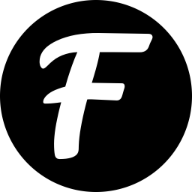
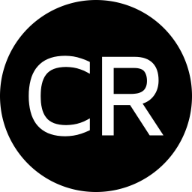
updated avicon and name

Changed region(s): [[0.125, 0.1562, 0.875, 0.8438]]

diff --git a/src/views/HomeView.vue b/src/views/HomeView.vue
@@ -40,7 +40,7 @@ const navigateToColleges = () => {
       
       <div class="mt-8 text-xl text-gray-300 space-y-6 text-left">
         <p>
-          <span class="text-blue-400 font-semibold">SKOOLS.COM</span> is your comprehensive platform for college exploration and decision-making. We help prospective students access detailed information about institutions across the United States to make informed choices about their academic future.
+          <span class="text-blue-400 font-semibold">COLLEGE REPORT CARDS</span> is your comprehensive platform for college exploration and decision-making. We help prospective students access detailed information about institutions across the United States to make informed choices about their academic future.
         </p>
         
         <p>

diff --git a/public/index.html b/public/index.html
@@ -16,7 +16,7 @@
     <!-- iOS web app configuration -->
     <meta name="apple-mobile-web-app-capable" content="yes">
     <meta name="apple-mobile-web-app-status-bar-style" content="black-translucent">
-    <meta name="apple-mobile-web-app-title" content="FlippyBot">
+    <meta name="apple-mobile-web-app-title" content="CollegeReport">
     
     <!-- Android/Chrome icons -->
     <link rel="manifest" href="<%= BASE_URL %>site.webmanifest">
@@ -24,7 +24,7 @@
     <!-- Optional: theme color for browsers that support it -->
     <meta name="theme-color" content="#1C1C1E">
     
-    <title>FlippyBot - Find Marketplace Deals</title>
+    <title>CollegeReport</title>
   </head>
   <body>
     <noscript>

diff --git a/src/App.vue b/src/App.vue
@@ -129,7 +129,7 @@ onUnmounted(() => {
         <div class="flex items-center justify-between h-16">
           <!-- Logo -->
           <div class="flex items-center">
-            <router-link to="/" class="uppercase tracking-wide text-white font-bold text-xl">SKOOLS.COM</router-link>
+            <router-link to="/" class="uppercase tracking-wide text-white font-bold text-lg sm:text-xl">COLLEGE REPORT CARDS</router-link>
             
             <!-- Navigation Links -->
             <div class="hidden md:block ml-10">

diff --git a/index.html b/index.html
@@ -13,7 +13,7 @@
     <!-- Apple touch icon for home screen -->
     <link rel="apple-touch-icon" href="/apple-touch-icon.png">
     
-    <title>FlippyBot</title>
+    <title>CollegeReport</title>
     <!-- Add Tailwind CSS via CDN (for development only) -->
     <script src="https://cdn.tailwindcss.com"></script>
     <style>

diff --git a/src/views/LoginView.vue b/src/views/LoginView.vue
@@ -3,7 +3,7 @@
     <div class="max-w-md w-full mx-6 bg-black p-6 rounded-lg shadow-lg border border-gray-800">
       <div>
         <h1 class="text-center text-4xl sm:text-5xl font-bold uppercase tracking-wide text-blue-400 mb-6">
-          SKOOLS.COM
+          COLLEGE REPORT CARDS
         </h1>
       </div>
       
